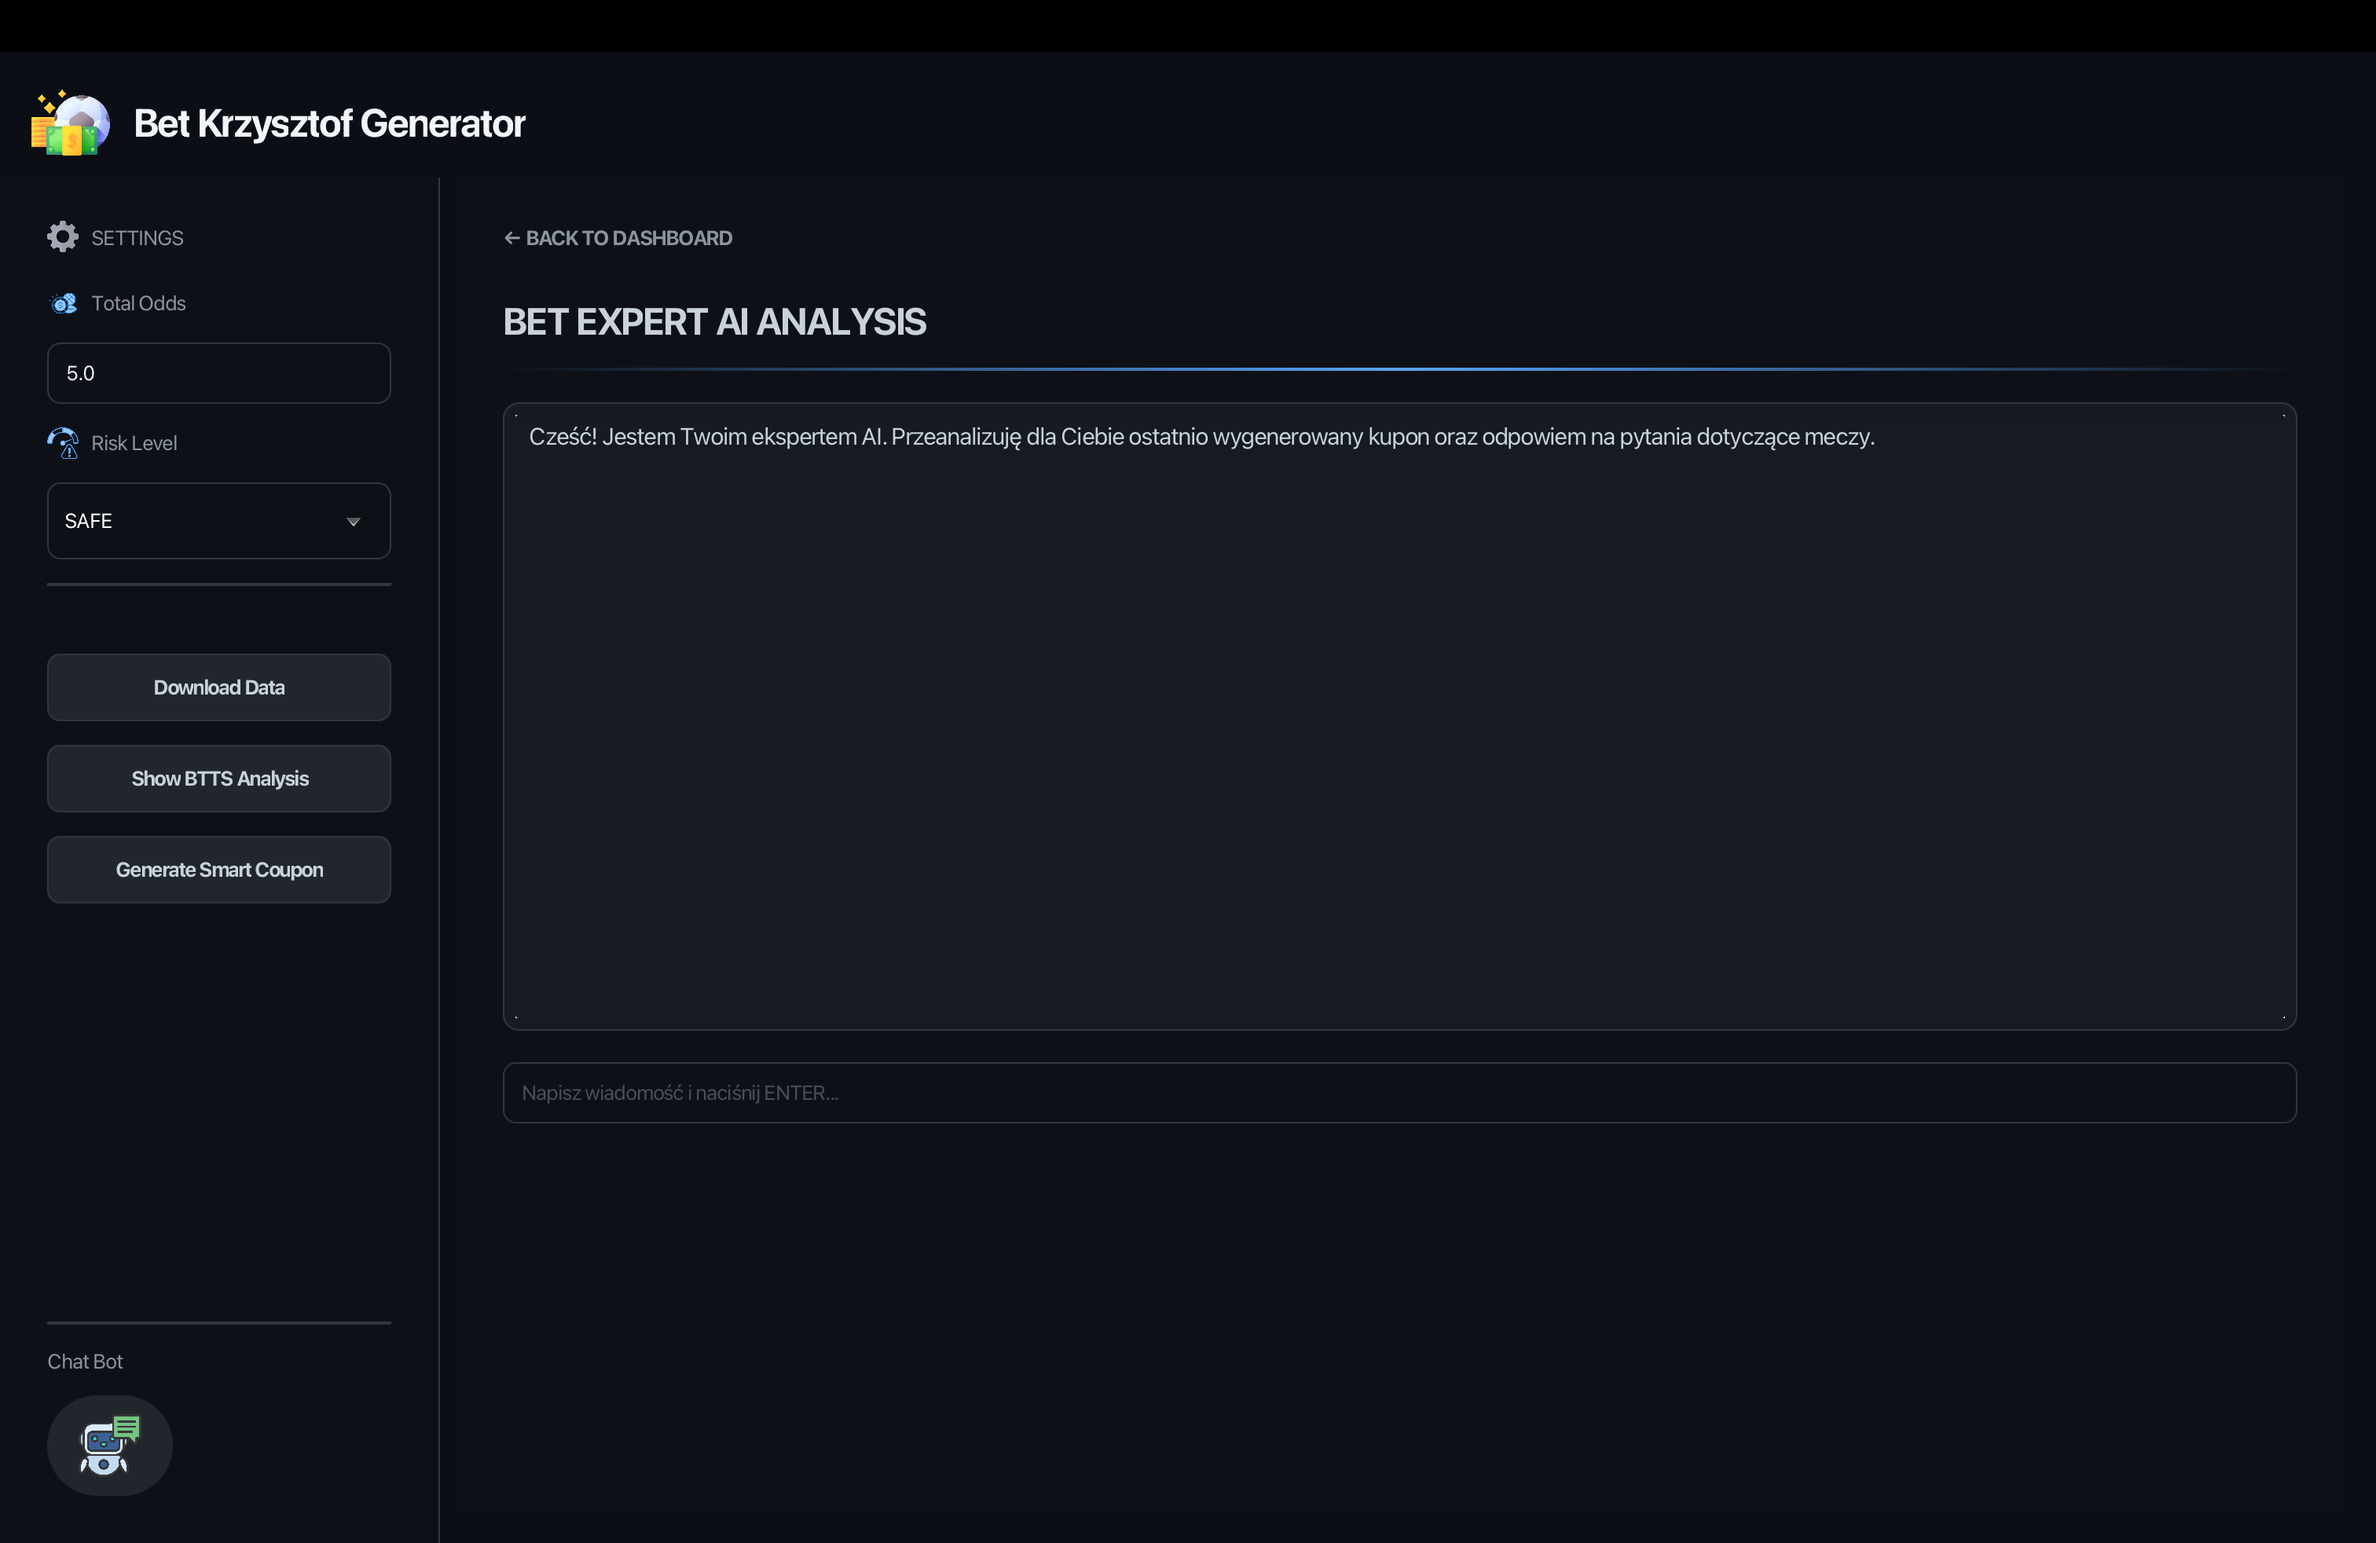
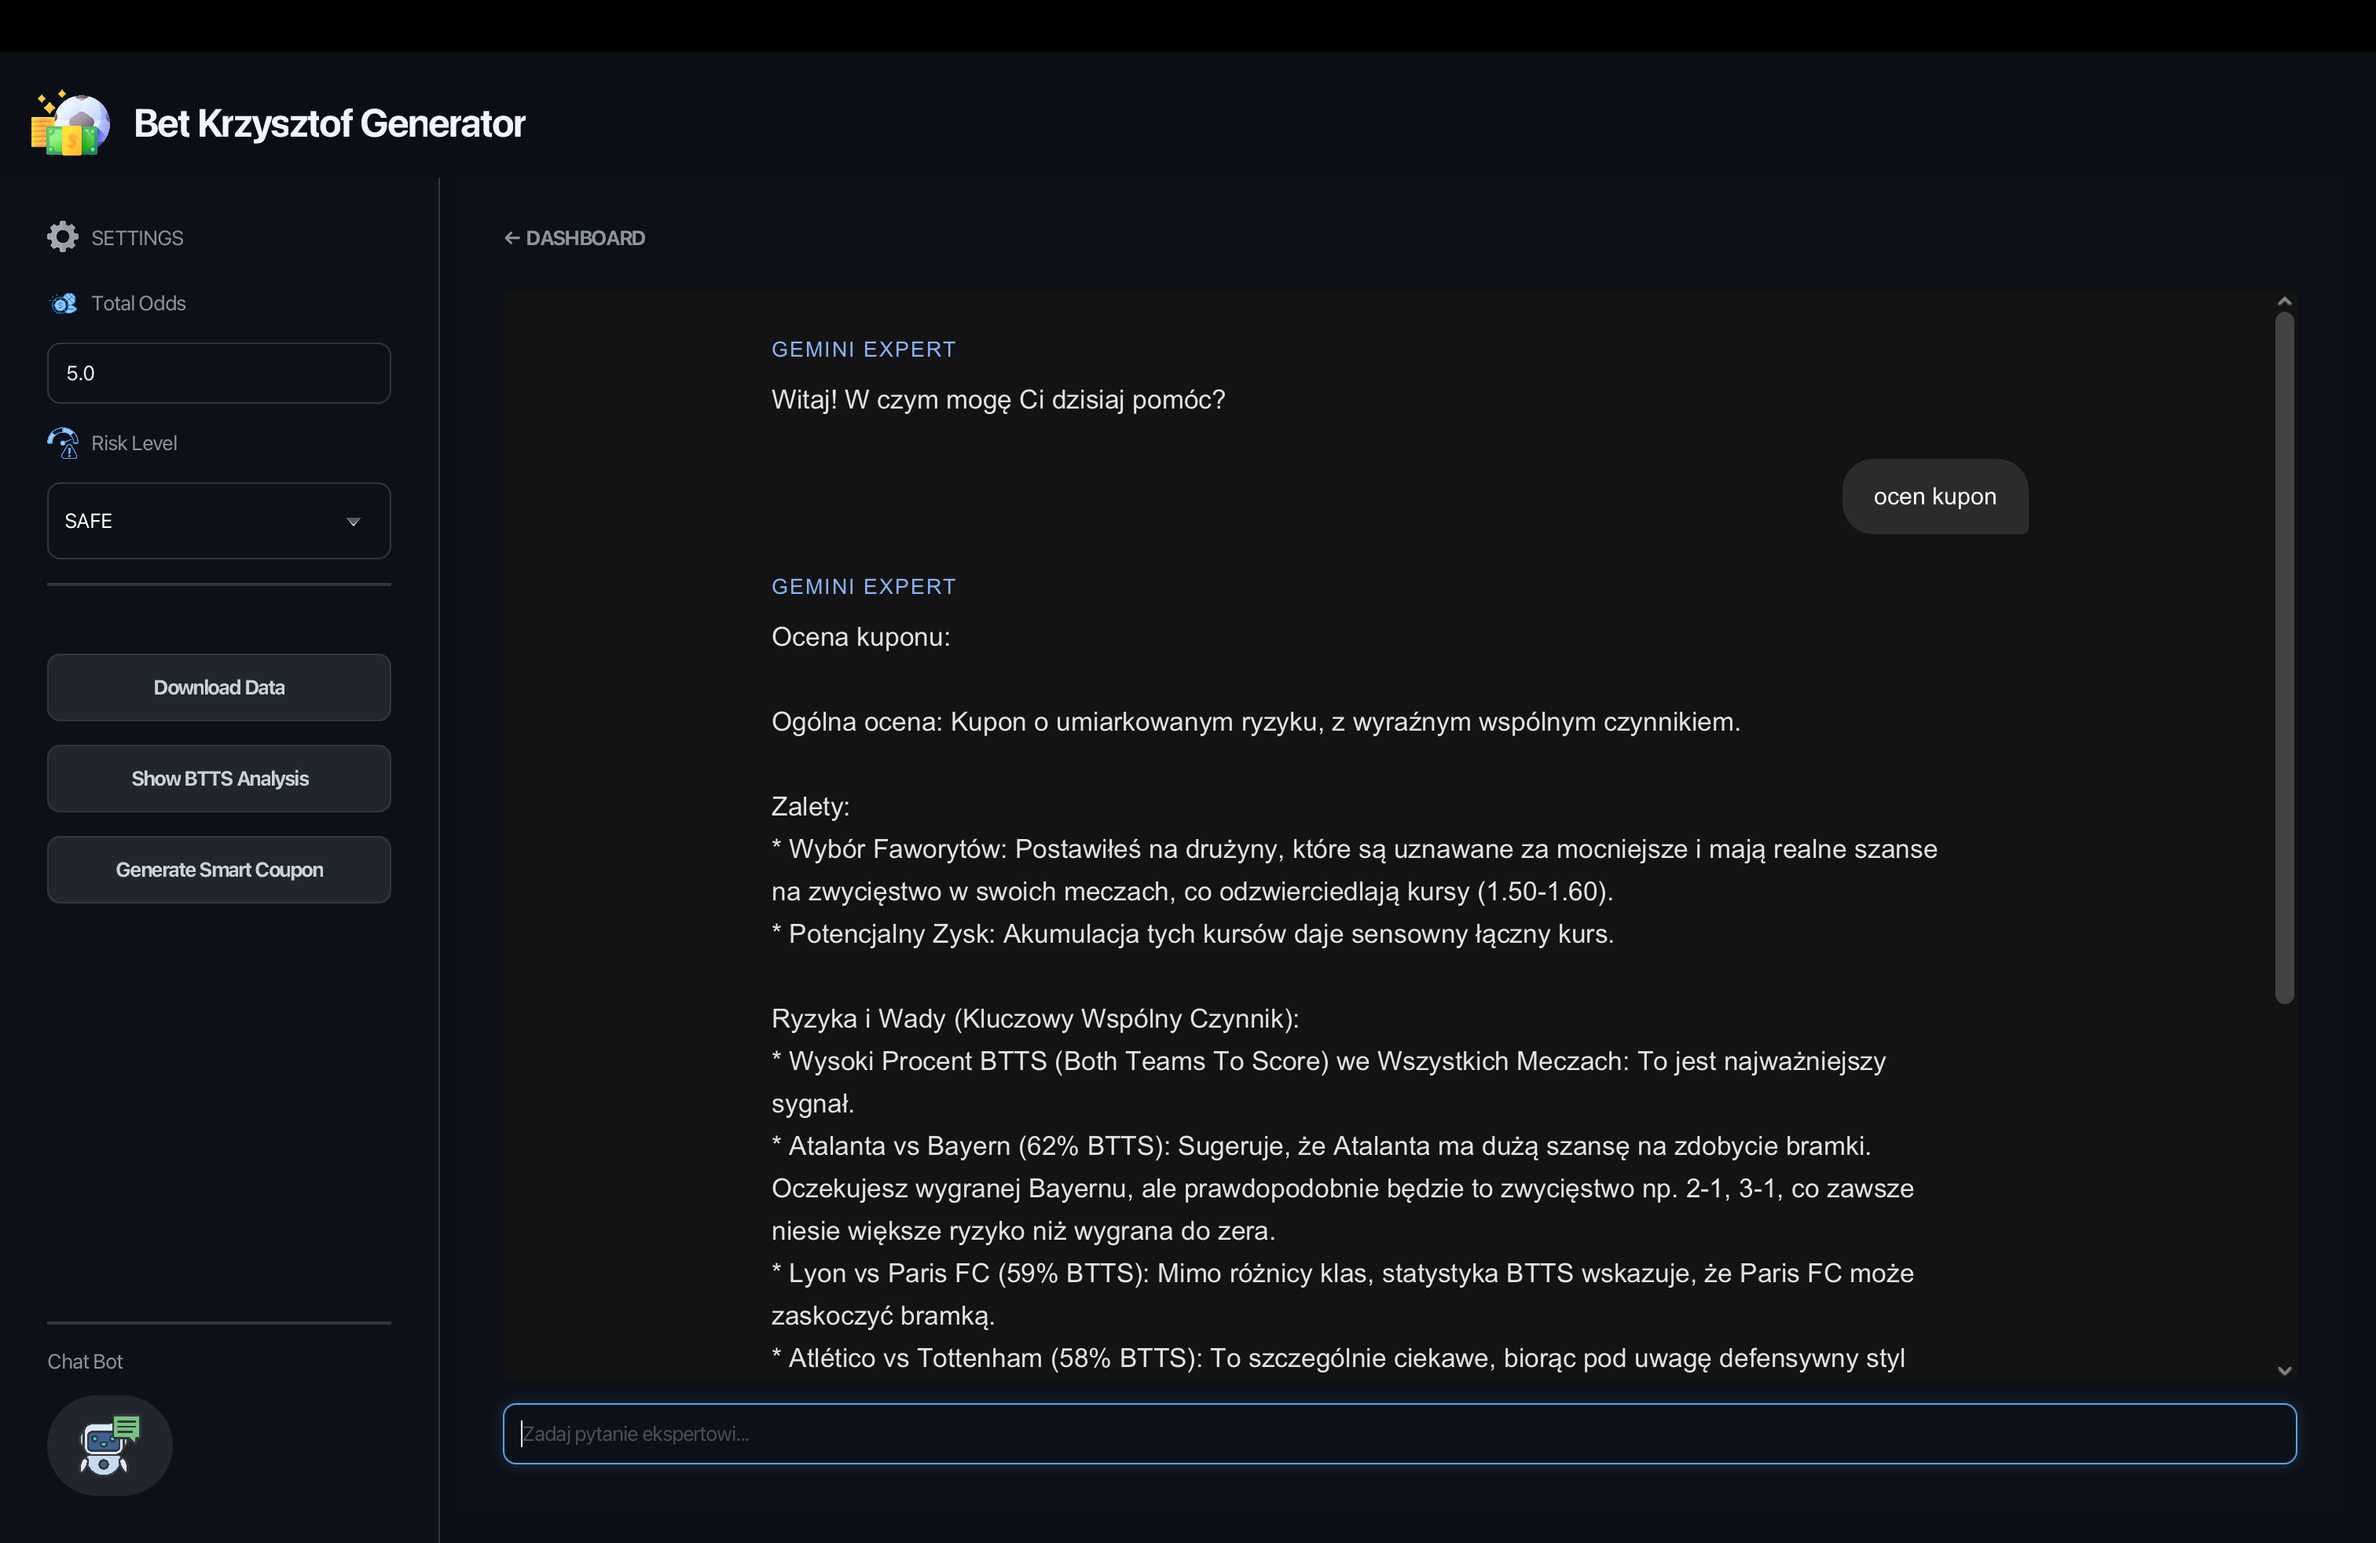
chat_bot_visual_update

diff --git a/bet-gen/src/main/java/gui/ChatView.java b/bet-gen/src/main/java/gui/ChatView.java
@@ -1,81 +1,144 @@
 package gui;
 
+import javafx.animation.KeyFrame;
+import javafx.animation.Timeline;
 import javafx.application.Platform;
 import javafx.geometry.Insets;
 import javafx.scene.control.Button;
-import javafx.scene.control.Label;
-import javafx.scene.control.TextArea;
 import javafx.scene.control.TextField;
+import javafx.scene.layout.Priority;
 import javafx.scene.layout.StackPane;
 import javafx.scene.layout.VBox;
+import javafx.scene.web.WebView;
+import javafx.util.Duration;
 import model.BetOption;
 import service.GeminiChatService;
 import java.util.List;
+import java.util.concurrent.atomic.AtomicInteger;
 
 public class ChatView extends VBox {
     private final GeminiChatService chatService = new GeminiChatService();
+    private final WebView webView = new WebView();
 
     public ChatView(StackPane stack, VBox originalView, List<BetOption> lastGeneratedCoupon) {
-        super(20);
+        super(15);
         this.getStyleClass().add("detail-container");
-        this.setPadding(new Insets(30));
+        this.setPadding(new Insets(20));
 
-        // --- HEADER AND BACK BUTTON  ---
-        Button backBtn = new Button("← BACK TO DASHBOARD");
+        // --- GEMINI UI STYLE ---
+        String styleCss = "<style>" +
+                "body { background-color: #131314; color: #e3e3e3; font-family: 'Inter', 'Segoe UI', sans-serif; padding: 20px; line-height: 1.6; scroll-behavior: smooth; }" +
+                ".message-container { display: flex; flex-direction: column; gap: 24px; max-width: 800px; margin: 0 auto; }" +
+                ".user-box { align-self: flex-end; background-color: #2b2b2b; padding: 12px 20px; border-radius: 20px; max-width: 80%; border-bottom-right-radius: 4px; color: #fff; font-size: 0.95em; }" +
+                ".ai-box { align-self: flex-start; max-width: 95%; font-size: 1.05em; }" +
+                ".ai-label { color: #8ab4f8; font-weight: 600; font-size: 0.8em; text-transform: uppercase; margin-bottom: 8px; display: block; letter-spacing: 1px; }" +
+                "h3 { color: #fff; margin: 15px 0 10px 0; font-size: 1.2em; }" +
+                "b { color: #8ab4f8; font-weight: 600; }" +
+                "li { margin-bottom: 8px; }" +
+                "hr { border: 0; border-top: 1px solid #3c4043; margin: 20px 0; }" +
+                "</style>";
+
+        String baseHtml = "<html><head>" + styleCss + "</head><body>" +
+                "<div id='chat-content' class='message-container'>" +
+                "<div class='ai-box'><span class='ai-label'>Gemini Expert</span>Witaj! W czym mogę Ci dzisiaj pomóc?</div>" +
+                "</div><div id='scroll-anchor'></div></body></html>";
+
+        webView.getEngine().loadContent(baseHtml);
+        webView.setPrefHeight(500);
+        VBox.setVgrow(webView, Priority.ALWAYS);
+
+        Button backBtn = new Button("← DASHBOARD");
         backBtn.getStyleClass().add("back-button");
         backBtn.setOnAction(e -> stack.getChildren().setAll(originalView));
 
-        VBox headerBox = new VBox(5);
-        headerBox.getStyleClass().add("detail-header-box");
-        Label titleLabel = new Label("BET EXPERT AI ANALYSIS");
-        titleLabel.getStyleClass().add("detail-title-text");
-        headerBox.getChildren().add(titleLabel);
-
-        // --- CHAT TEXT AREA ---
-        TextArea chatArea = new TextArea("Cześć! Jestem Twoim ekspertem AI. Przeanalizuję dla Ciebie ostatnio wygenerowany kupon" +
-                " oraz odpowiem na pytania dotyczące meczy.\n");
-        chatArea.setEditable(false);
-        chatArea.setWrapText(true);
-        chatArea.setPrefHeight(400);
-        chatArea.getStyleClass().add("chat-text");
-
-        // --- QUESTION AREA ---
         TextField userInput = new TextField();
-        userInput.setPromptText("Napisz wiadomość i naciśnij ENTER...");
+        userInput.setPromptText("Zadaj pytanie ekspertowi...");
         userInput.getStyleClass().add("text-field");
 
-        // --- QUESTION WITH ENETR LOGIC ---
         userInput.setOnAction(e -> {
             String question = userInput.getText();
             if (question.isEmpty()) return;
-
-            chatArea.appendText("\n\nTY: " + question);
             userInput.clear();
 
-            // preparing data about last coupon
+            // user message
+            addMessageToHtml("user", question);
+
             StringBuilder context = new StringBuilder();
             if (lastGeneratedCoupon.isEmpty()) {
-                context.append("Użytkownik nie wygenerował jeszcze kuponu.");
+                context.append("Brak kuponu.");
             } else {
-                context.append("Aktualny kupon do analizy:\n");
+                context.append("Dane kuponu:\n");
                 for (BetOption b : lastGeneratedCoupon) {
-                    context.append("- ").append(b.getName()).append(" | Kurs: ").append(b.getPrice()).append("\n");
+                    context.append("- ").append(b.getName()).append(" (Kurs: ").append(b.getPrice()).append(")\n");
                 }
             }
 
-            // loading expert's answer
-            chatArea.appendText("\n\nEKSPERT AI: Pisze...");
-
             new Thread(() -> {
                 String aiAnswer = chatService.getAiResponse(question, context.toString());
-                Platform.runLater(() -> {
-                    String currentText = chatArea.getText();
-                    chatArea.setText(currentText.substring(0, currentText.lastIndexOf("Pisze...")) + aiAnswer);
-                    chatArea.setScrollTop(Double.MAX_VALUE); // automatic scrolling down
-                });
+                String formatted = formatMarkdownToHtml(aiAnswer);
+
+                // typing effect
+                Platform.runLater(() -> streamAiResponse(formatted));
             }).start();
         });
 
-        this.getChildren().addAll(backBtn, headerBox, chatArea, userInput);
+        this.getChildren().addAll(backBtn, webView, userInput);
+    }
+
+    private void addMessageToHtml(String role, String text) {
+        String divClass = role.equals("user") ? "user-box" : "ai-box";
+        String label = role.equals("user") ? "" : "<span class='ai-label'>Gemini Expert</span>";
+
+        String script = String.format(
+                "var container = document.getElementById('chat-content');" +
+                        "var div = document.createElement('div');" +
+                        "div.className = '%s';" +
+                        "div.innerHTML = \"%s%s\";" +
+                        "container.appendChild(div);" +
+                        "window.scrollTo(0, document.body.scrollHeight);",
+                divClass, label, text.replace("\"", "\\\"").replace("\n", "")
+        );
+        webView.getEngine().executeScript(script);
+    }
+
+    private void streamAiResponse(String fullHtml) {
+        // box for AI answer
+        String uniqueId = "ai_" + System.currentTimeMillis();
+        webView.getEngine().executeScript(
+                "var container = document.getElementById('chat-content');" +
+                        "var div = document.createElement('div');" +
+                        "div.className = 'ai-box';" +
+                        "div.innerHTML = \"<span class='ai-label'>Gemini Expert</span><span id='" + uniqueId + "'></span>\";" +
+                        "container.appendChild(div);"
+        );
+
+        // writing simulation
+        String[] parts = fullHtml.split("(?=<)|(?<=>)");
+        AtomicInteger index = new AtomicInteger(0);
+
+        Timeline timeline = new Timeline();
+        KeyFrame keyFrame = new KeyFrame(Duration.millis(70), e -> {
+            if (index.get() < parts.length) {
+                String part = parts[index.getAndIncrement()];
+
+                String escapedPart = part.replace("\"", "\\\"").replace("\n", "");
+                webView.getEngine().executeScript(
+                        "document.getElementById('" + uniqueId + "').innerHTML += \"" + escapedPart + "\";" +
+                                "window.scrollTo(0, document.body.scrollHeight);"
+                );
+            }
+        });
+
+        timeline.getKeyFrames().add(keyFrame);
+        timeline.setCycleCount(parts.length);
+        timeline.play();
+    }
+
+    private String formatMarkdownToHtml(String markdown) {
+        return markdown
+                .replaceAll("(?m)^### (.*)$", "<h3>$1</h3>")
+                .replaceAll("(?m)^- (.*)$", "<li>$1</li>")
+                .replaceAll("\\*\\*(.*?)\\*\\*", "<b>$1</b>")
+                .replace("\n", "<br>");
     }
 }

diff --git a/bet-gen/src/main/java/module-info.java b/bet-gen/src/main/java/module-info.java
@@ -6,6 +6,7 @@ module bet.gen {
     requires com.fasterxml.jackson.datatype.jsr310;
     requires java.net.http;
     requires java.desktop;
+    requires javafx.web;
 
     opens gui to javafx.graphics, javafx.fxml;
     opens model to com.fasterxml.jackson.databind;

diff --git a/README.md b/README.md
@@ -73,4 +73,4 @@ gemini.api.key=YOUR_GEMINI_API_KEY
 ### Deployment (macOS) 
    Run the automated update script from your terminal:
    ```Bash
-   ./update_app.sh
+      bash path_to_file/update_app.sh
